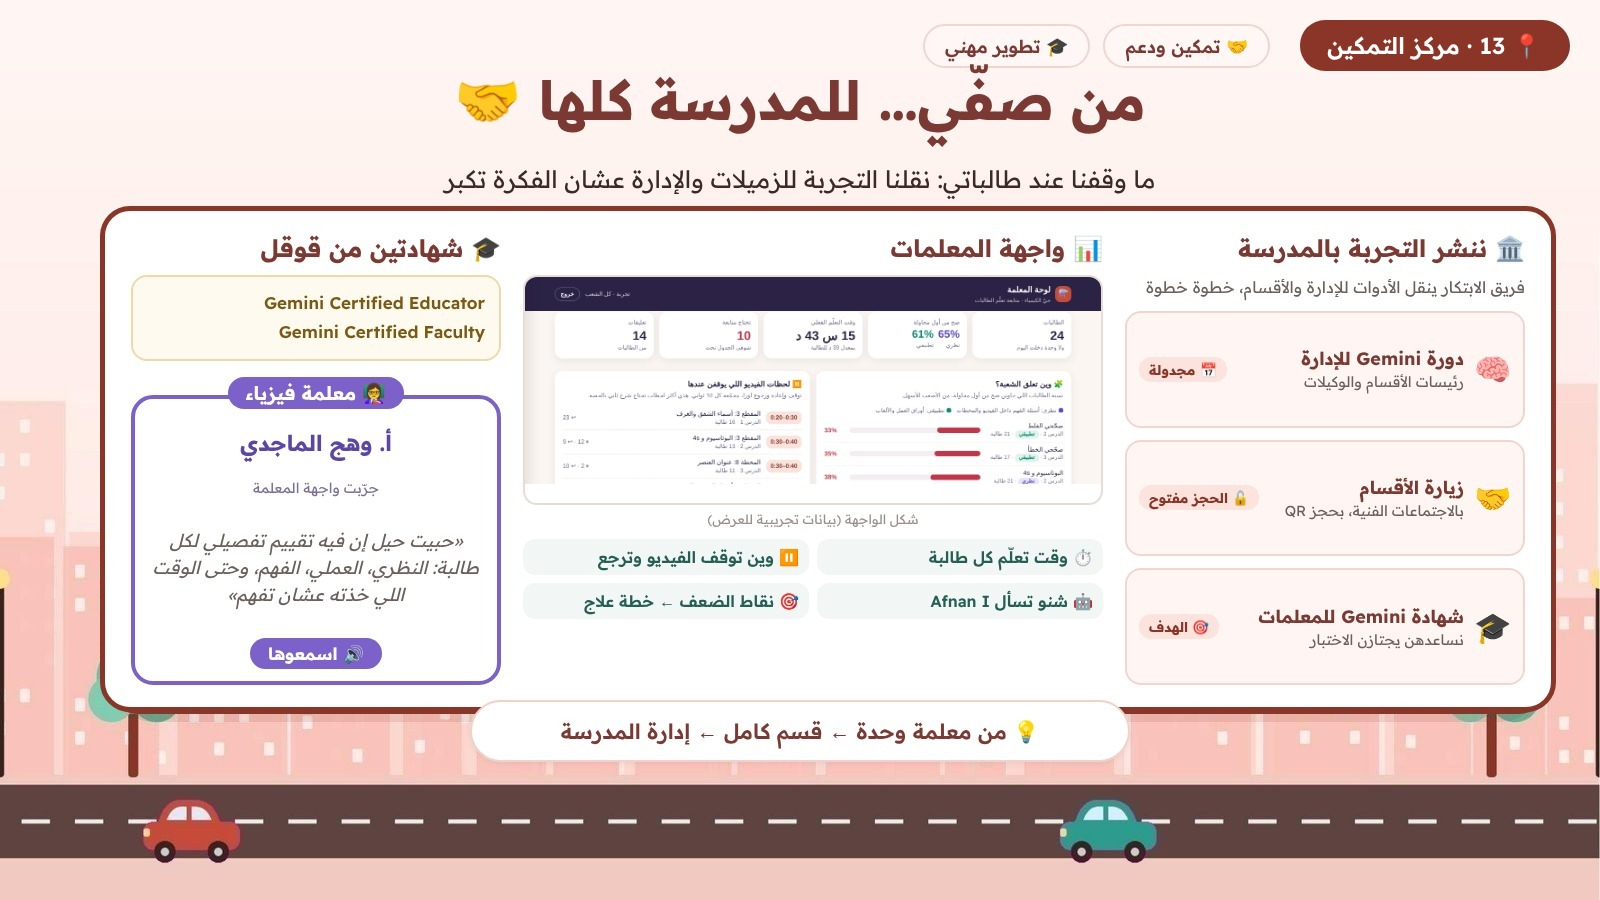
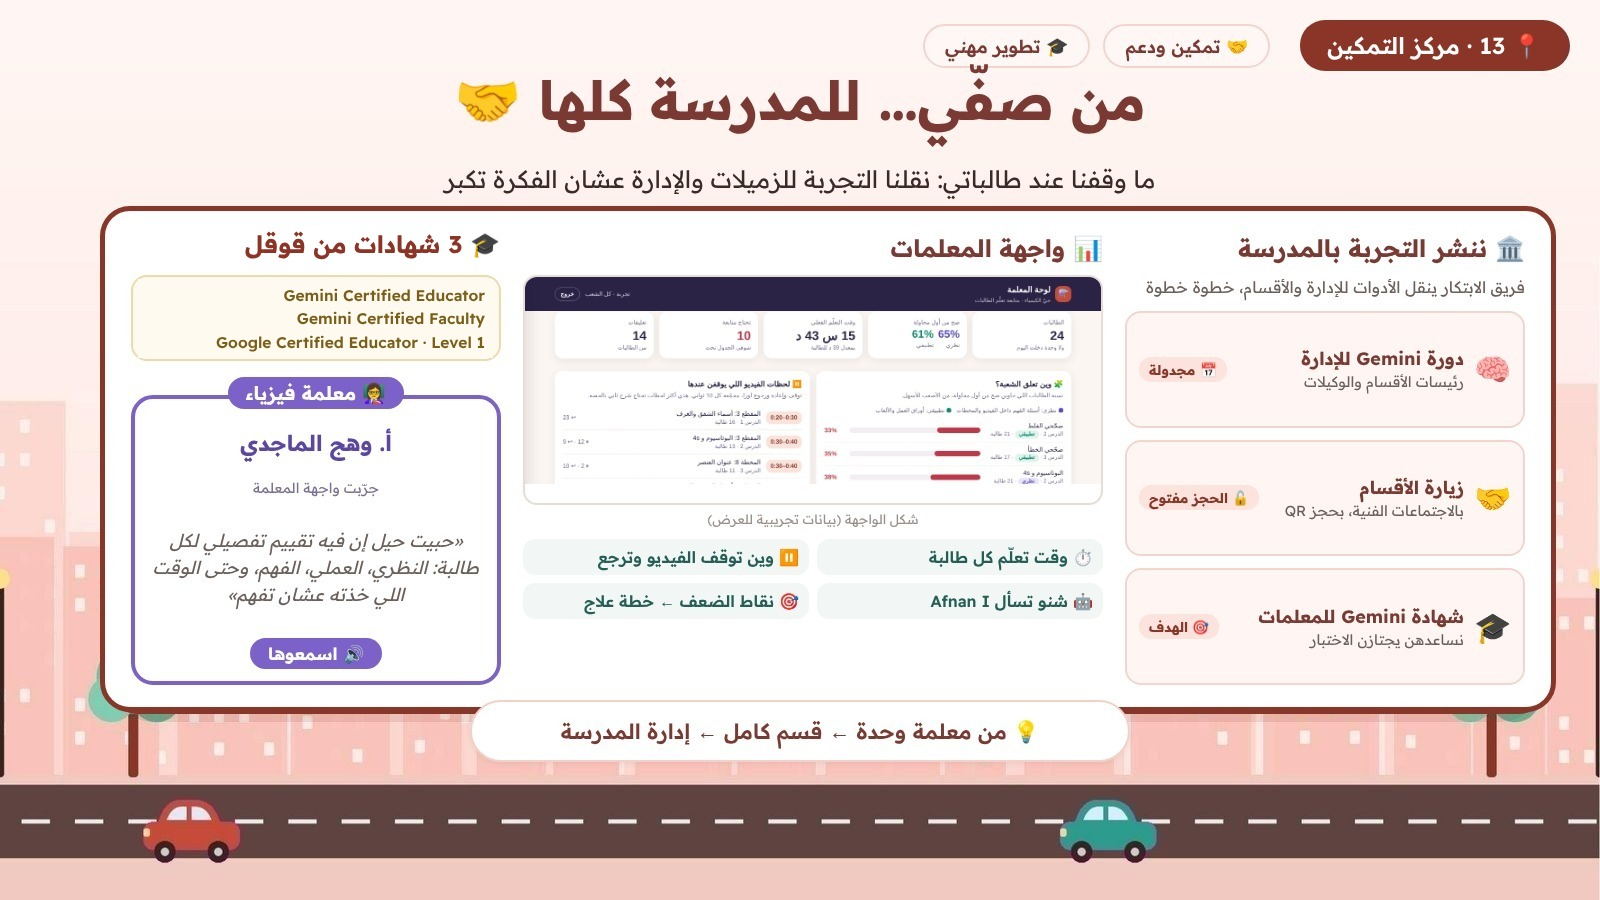
سلايد 13: 3 شهادات من قوقل؛ سلايد 14 جديد «صندوق الأدوات» (9 أدوات Google)؛ طريق المستقبل صار 15
Claude-Session: https://claude.ai/code/session_017v5M1nMMuuW3eDakFtezuA

Changed region(s): [[0.125, 0.2489, 0.3125, 0.4044]]

diff --git a/_src/tools/s14-tools.html b/_src/tools/s14-tools.html
@@ -1,0 +1,48 @@
+<!doctype html><html dir="rtl" lang="ar"><head><meta charset="utf-8"><style>
+@font-face{font-family:R;font-weight:400;src:url(node_modules/@fontsource/readex-pro/files/readex-pro-arabic-400-normal.woff2)}
+@font-face{font-family:R;font-weight:600;src:url(node_modules/@fontsource/readex-pro/files/readex-pro-arabic-600-normal.woff2)}
+@font-face{font-family:R;font-weight:700;src:url(node_modules/@fontsource/readex-pro/files/readex-pro-arabic-700-normal.woff2)}
+@font-face{font-family:R;font-weight:400;src:url(node_modules/@fontsource/readex-pro/files/readex-pro-latin-400-normal.woff2);unicode-range:U+0000-00FF,U+2000-206F}
+@font-face{font-family:R;font-weight:600;src:url(node_modules/@fontsource/readex-pro/files/readex-pro-latin-600-normal.woff2);unicode-range:U+0000-00FF,U+2000-206F}
+@font-face{font-family:R;font-weight:700;src:url(node_modules/@fontsource/readex-pro/files/readex-pro-latin-700-normal.woff2);unicode-range:U+0000-00FF,U+2000-206F}
+*{margin:0;box-sizing:border-box}
+html,body{width:1600px;height:900px;background:transparent;font-family:R,'Noto Color Emoji',sans-serif;position:relative}
+.top{position:absolute;left:0;top:0;width:1600px;height:203px;background:linear-gradient(#fff5f3,#fdefec)}
+.badge{height:50px;padding:0 42px;border-radius:24px;background:#8b3a2c;color:#fff;font-weight:600;font-size:21px;display:flex;align-items:center;gap:8px}
+.hdr{position:absolute;right:34px;top:20px;display:flex;gap:12px;align-items:center}.tags{display:flex;gap:12px}
+.tag{height:48px;padding:0 20px;border-radius:24px;background:#fff;border:2px solid #f0d6d0;color:#5e3a32;font-weight:600;font-size:18px;display:flex;align-items:center;gap:6px}
+h1{position:absolute;right:60px;top:78px;font-size:54px;font-weight:700;color:#8b3528;line-height:1.2}
+h1 span{font-family:R;direction:ltr;unicode-bidi:isolate}
+.sub{position:absolute;right:62px;top:156px;font-size:22px;color:#5e534f}
+.card{position:absolute;left:97px;top:203px;width:1462px;height:513px;background:#fff;border:5px solid #85382a;border-radius:30px}
+.grid{position:absolute;left:135px;top:234px;width:1386px;display:grid;grid-template-columns:repeat(3,1fr);gap:14px 20px}
+.t{height:140px;border-radius:20px;background:#fff;border:2px solid #f3dcd6;box-shadow:0 4px 0 #f6e4df;padding:12px 18px 10px;display:flex;flex-direction:column;gap:4px}
+.h{display:flex;align-items:center;gap:10px;direction:ltr;justify-content:flex-end}
+.n{font-weight:700;font-size:22px;color:#3b2a26;direction:ltr}
+.i{width:40px;height:40px;border-radius:14px;display:flex;align-items:center;justify-content:center;font-size:24px}
+.d{font-size:17.5px;line-height:1.5;color:#5e534f}
+.d b{color:#8b3528;font-weight:600}
+.b{background:#e8f0fe}.g{background:#e6f4ea}.y{background:#fef7e0}.r{background:#fce8e6}.p{background:#f3e8fd}
+.dots{display:flex;gap:4px;margin-top:auto;direction:ltr}
+.dots i{display:block;height:5px;border-radius:3px;flex:1}
+.pill{position:absolute;left:230px;top:694px;width:1200px;height:66px;border-radius:33px;background:#fff;border:2px solid #f0d6d0;box-shadow:0 6px 16px rgba(139,53,40,.12);display:flex;align-items:center;justify-content:center;gap:10px;font-size:18px;color:#5e3a32;font-weight:600}
+.pill small{font-weight:400;color:#7a6b66;font-size:17px}
+</style></head><body>
+<div class="top"></div>
+<div class="hdr"><div class="badge">📍 14 · صندوق الأدوات</div><div class="tags"><div class="tag">💻 تحول رقمي</div><div class="tag">🤖 ذكاء اصطناعي</div></div></div>
+<h1>مبنيّ على أدوات <span>Google</span></h1>
+<div class="sub">كل جزء من التجربة يشتغل على أداة من Google Workspace و Gemini</div>
+<div class="card"></div>
+<div class="grid">
+ <div class="t"><div class="h"><span class="n">Google Sites</span><span class="i b">🌐</span></div><div class="d"><b>بوابة المشروع</b> ورابط التحكيم، والدروس التفاعلية مضمّنة داخله</div><div class="dots"><i style="background:#4285F4"></i></div></div>
+ <div class="t"><div class="h"><span class="n">Gemini Gems</span><span class="i p">✨</span></div><div class="d"><b>Afnan I</b>: مساعد ذكي يرد بلهجتنا ويلمّح قبل الحل</div><div class="dots"><i style="background:#8E75F0"></i></div></div>
+ <div class="t"><div class="h"><span class="n">NotebookLM</span><span class="i y">📚</span></div><div class="d">مصادر Afnan I: <b>الكتاب ودليل المعلم وبنك الأسئلة</b></div><div class="dots"><i style="background:#F9AB00"></i></div></div>
+ <div class="t"><div class="h"><span class="n">Google Forms</span><span class="i p">📋</span></div><div class="d"><b>الاختبارات واستبيانات</b> الطالبات وأولياء الأمور والمؤلفة</div><div class="dots"><i style="background:#7248B9"></i></div></div>
+ <div class="t"><div class="h"><span class="n">Google Sheets</span><span class="i g">📊</span></div><div class="d"><b>جدول النتائج</b>: القبلي والبعدي ومقارنة المجموعتين</div><div class="dots"><i style="background:#0F9D58"></i></div></div>
+ <div class="t"><div class="h"><span class="n">Google Slides</span><span class="i y">🖼</span></div><div class="d"><b>العرض التقديمي</b> بالأصوات والاقتباسات</div><div class="dots"><i style="background:#F4B400"></i></div></div>
+ <div class="t"><div class="h"><span class="n">Google Drive</span><span class="i b">🎙</span></div><div class="d"><b>أصوات المقابلات</b>: المؤلفة والخبير والطالبات والأهل</div><div class="dots"><i style="background:#4285F4"></i><i style="background:#0F9D58"></i><i style="background:#F4B400"></i></div></div>
+ <div class="t"><div class="h"><span class="n">Apps Script</span><span class="i r">⚙</span></div><div class="d"><b>أتمتة</b> بناء النماذج وربطها بجدول النتائج</div><div class="dots"><i style="background:#DB4437"></i></div></div>
+<div class="t"><div class="h"><span class="n">Google model-viewer</span><span class="i g">🥽</span></div><div class="d"><b>الواقع المعزز</b>: مجسّمات العناصر تطلع بالغرفة (Scene Viewer)</div><div class="dots"><i style="background:#0F9D58"></i><i style="background:#4285F4"></i></div></div>
+</div>
+<div class="pill">🎓 المعلمة حاصلة على 3 شهادات: <span dir="ltr">Gemini Certified Educator · Gemini Certified Faculty · Google Certified Educator L1</span></div>
+</body></html>

diff --git a/index.html b/index.html
@@ -427,7 +427,7 @@ const CONFIG = {
     video:   'project.mp4',   // فيديو المشروع (التصوير + المونتاج)
     ai:      'ai.mp4',   // فيديو الذكاء الاصطناعي
     slides:  'flip',   // العرض: مجلة مفتوحة للكل (فُتحت 14/11 للحكام). ?preview صار ما يفرق
-    slidesCount: 14,
+    slidesCount: 15,
     slidesLink: 'https://docs.google.com/presentation/d/1ix6IXVzHaZDfBP6o-S6j4i7wuDFxMNQtlNXGKxHedow/present',
     results: 'deck-8.jpg',   // النتائج: سلايد برج النتائج
     resultsForms: 'results-parents.png',   // لقطة ملخص استبيان أولياء الأمور (Google Forms، 20 رد)
@@ -535,7 +535,7 @@ const CONFIG = {
     back.innerHTML='<div><div class="mbT">حيّ الكيمياء</div><img class="mbLogo" alt="By Afnan"><div class="mbS2">شكراً من القلب 🤍</div></div>';
     h.appendChild(back);
     if(PAD){ var inner=document.createElement('div'); inner.className='page magBack magInner'; inner.innerHTML='<div><img class="mbLogo" alt="By Afnan" style="opacity:.55"></div>'; h.appendChild(inner); }
-    for(var i=N;i>=1;i--){ var pg=document.createElement('div'); pg.className='page'; if(i===1) pg.setAttribute('data-density','hard'); pg.innerHTML='<img src="deck-'+i+'.jpg" alt="سلايد '+i+'" decoding="async">'; h.appendChild(pg); }
+    for(var i=N;i>=1;i--){ var pg=document.createElement('div'); pg.className='page'; if(i===1) pg.setAttribute('data-density','hard'); pg.innerHTML='<img src="deck-'+i+'.jpg?v=15" alt="سلايد '+i+'" decoding="async">'; h.appendChild(pg); }
     var W=wrap.clientWidth||900, single=W<640;
     var pw=single?Math.min(W,980):Math.floor(Math.min(W,1100)/2);
     book=new St.PageFlip(h,{width:pw,height:Math.round(pw*9/16),size:'fixed',showCover:true,usePortrait:single,maxShadowOpacity:.5,mobileScrollSupport:true,flippingTime:1000,drawShadow:true});

diff --git a/_src/tools/s13-certs.html b/_src/tools/s13-certs.html
@@ -1,0 +1,15 @@
+<!doctype html><html dir="rtl" lang="ar"><head><meta charset="utf-8"><style>
+@font-face{font-family:R;font-weight:600;src:url(node_modules/@fontsource/readex-pro/files/readex-pro-arabic-600-normal.woff2)}
+@font-face{font-family:R;font-weight:700;src:url(node_modules/@fontsource/readex-pro/files/readex-pro-arabic-700-normal.woff2)}
+@font-face{font-family:R;font-weight:600;src:url(node_modules/@fontsource/readex-pro/files/readex-pro-latin-600-normal.woff2);unicode-range:U+0000-00FF,U+2000-206F}
+@font-face{font-family:R;font-weight:700;src:url(node_modules/@fontsource/readex-pro/files/readex-pro-latin-700-normal.woff2);unicode-range:U+0000-00FF,U+2000-206F}
+*{margin:0;box-sizing:border-box}html,body{width:1600px;height:900px;background:transparent;font-family:R,'Noto Color Emoji',sans-serif;position:relative}
+.w1{position:absolute;left:240px;top:226px;width:285px;height:46px;background:#fff}
+.t{position:absolute;right:1100px;top:229px;font-size:24px;font-weight:700;color:#8b3528;white-space:nowrap}
+.w2{position:absolute;left:138px;top:279px;width:355px;height:79px;background:#fefaef}
+.c{position:absolute;left:140px;top:280px;width:345px;height:78px;display:flex;flex-direction:column;justify-content:center;align-items:flex-end;direction:ltr;font-size:15.5px;font-weight:600;color:#7a5f1c;line-height:1.5}
+</style></head><body>
+<div class="w1"></div><div class="t">🎓 3 شهادات من قوقل</div>
+<div class="w2"></div>
+<div class="c"><div>Gemini Certified Educator</div><div>Gemini Certified Faculty</div><div>Google Certified Educator · Level 1</div></div>
+</body></html>

diff --git a/_src/tools/s15-badge.html b/_src/tools/s15-badge.html
@@ -1,0 +1,7 @@
+<!doctype html><html dir="rtl" lang="ar"><head><meta charset="utf-8"><style>
+@font-face{font-family:R;font-weight:600;src:url(node_modules/@fontsource/readex-pro/files/readex-pro-arabic-600-normal.woff2)}
+@font-face{font-family:R;font-weight:600;src:url(node_modules/@fontsource/readex-pro/files/readex-pro-latin-600-normal.woff2);unicode-range:U+0000-00FF,U+2000-206F}
+*{margin:0;box-sizing:border-box}html,body{width:1600px;height:900px;background:transparent;font-family:R,'Noto Color Emoji',sans-serif;position:relative}
+.w{position:absolute;left:1236px;top:14px;width:340px;height:64px;background:#fff5f3}
+.badge{position:absolute;right:34px;top:20px;height:50px;width:323px;justify-content:center;padding:0;border-radius:25px;background:#8b3a2c;color:#fff;font-weight:600;font-size:21px;display:flex;align-items:center;gap:8px}
+</style></head><body><div class="w"></div><div class="badge">📍 15 · طريق المستقبل</div></body></html>

diff --git a/_src/tools/render.py b/_src/tools/render.py
@@ -1,0 +1,10 @@
+import sys
+from playwright.sync_api import sync_playwright
+from PIL import Image
+html,base,out=sys.argv[1:4]
+with sync_playwright() as p:
+    b=p.chromium.launch(); pg=b.new_page(viewport={'width':1600,'height':900})
+    pg.goto('file:///home/claude/deck/'+html); pg.wait_for_timeout(800)
+    pg.screenshot(path='ov.png',omit_background=True); b.close()
+bg=Image.open(base).convert('RGBA'); ov=Image.open('ov.png').convert('RGBA')
+Image.alpha_composite(bg,ov).convert('RGB').save(out,quality=92)

diff --git a/_src/tools/README.md b/_src/tools/README.md
@@ -1,0 +1,4 @@
+سلايد 13 (3 شهادات) = s13-certs.html فوق base-deck13.jpg
+سلايد 14 (صندوق الأدوات) = s14-tools.html فوق base-deck13.jpg
+سلايد 15 (طريق المستقبل) = s15-badge.html فوق base-deck14-future.jpg
+الخط: npm i @fontsource/readex-pro بنفس مجلد الـ html، ثم: python3 render.py <html> <base> <out>
